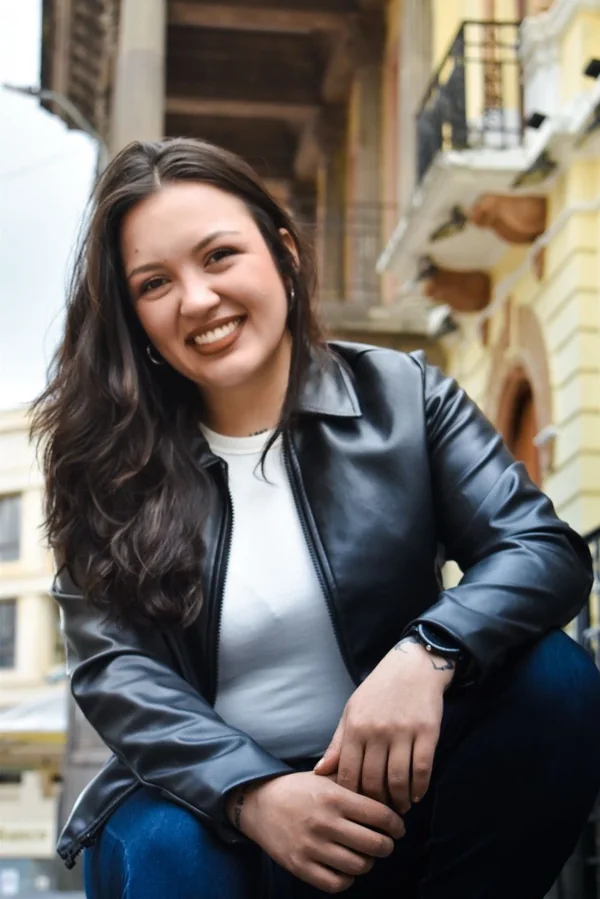
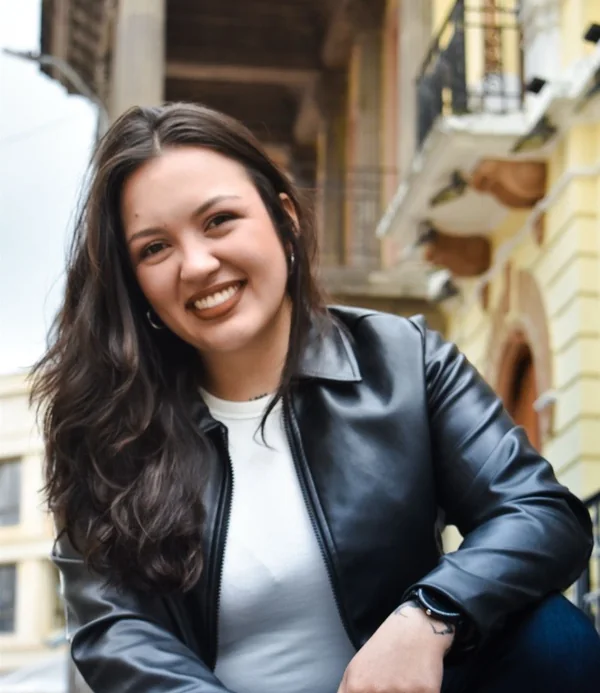
Foto de perfil recortada a la altura de las manos
Claude-Session: https://claude.ai/code/session_01QM9PEBcjLrGekb7U7GQHYh

diff --git a/index.html b/index.html
@@ -72,11 +72,11 @@ nav.links a:hover{color:var(--olive)}
 .btn:hover{transform:translateY(-1px)}
 .btn{transition:transform .15s ease}
 .hero-pic{position:relative;align-self:end;min-width:0}
-.arch{position:relative;background:var(--sage);border-radius:240px 240px 18px 18px;aspect-ratio:600/860;max-width:100%;overflow:hidden;outline:8px solid var(--sage);outline-offset:-1px;box-shadow:0 0 80px var(--glow)}
-.arch img{position:absolute;inset:0;width:100%;height:100%;object-fit:cover;object-position:50% 30%;display:block}
+.arch{position:relative;background:var(--sage);border-radius:240px 240px 18px 18px;aspect-ratio:600/693;max-width:100%;overflow:hidden;outline:8px solid var(--sage);outline-offset:-1px;box-shadow:0 0 80px var(--glow)}
+.arch img{position:absolute;inset:0;width:100%;height:100%;object-fit:cover;object-position:50% 0;display:block}
 .tag-float{position:absolute;background:var(--surface);border:1px solid var(--line);border-radius:10px;padding:8px 12px;font:500 .74rem/1.3 var(--f-mono);color:var(--ink);box-shadow:0 10px 30px rgba(0,0,0,.35)}
 .tag-float b{display:block;color:var(--olive);font-family:var(--f-display);font-size:1.05rem;font-weight:800;letter-spacing:-.01em}
-.tf1{left:-28px;top:22%}
+.tf1{left:-16px;top:22%}
 .tf2{right:-14px;bottom:16%}
 @media (max-width:820px){.hero{grid-template-columns:1fr;padding-top:36px}.hero-txt{padding-bottom:8px}.hero-pic{max-width:380px;margin-inline:auto;width:100%}.tf1{left:-6px}.tf2{right:-6px}}
 
@@ -256,7 +256,7 @@ section.sec{padding-block:88px 0}
       </div>
     </div>
     <div class="hero-pic">
-      <div class="arch"><img src="assets/diana-rosero.webp" alt="Diana Rosero sonriendo, con chaqueta de cuero negra" width="600" height="899"></div>
+      <div class="arch"><img src="assets/diana-rosero.webp" alt="Diana Rosero sonriendo, con chaqueta de cuero negra" width="600" height="693"></div>
       <div class="tag-float tf1"><b>99,5%</b><span lang="es">cobertura de datos</span><span lang="en">data coverage</span></div>
       <div class="tag-float tf2"><b>GCP</b>Professional<br>Data Engineer</div>
     </div>
